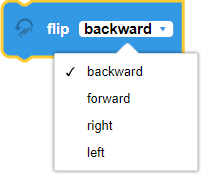
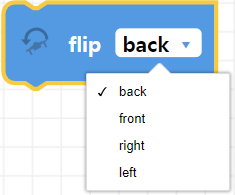
block image update & print css

diff --git a/src/css/custom.css b/src/css/custom.css
@@ -6,6 +6,12 @@
 
 /* You can override the default Infima variables here. */
 
+@media print {
+  .row>.col:first-child {
+    overflow: visible !important;
+  }
+}
+
 .navbar {
   background-color: #061030;
   height: 80px;

diff --git a/docs/CoDroneEDU/Blockly/page4.md b/docs/CoDroneEDU/Blockly/page4.md
@@ -154,10 +154,10 @@ In this example, roll and pitch are both set to positive 30% while yaw and throt
 
 <img src="/img/CDE/blockly_docu/senior/flip_params.png" width="180px"/>  
 
-**direction:** backward, forward, right, left
+**direction:** back, front, right, left
 
 #### Description
-This functions makes the drone flip backward, forward, right, or left. Make sure your battery percentage is over 50% for the flip to execute.
+This functions makes the drone flip back, front, right, or left. Make sure your battery percentage is over 50% for the flip to execute.
 
 #### Returns
 None
@@ -1184,6 +1184,12 @@ None
 ```
 Draws a line between points (x1, y1) and (x2, y2)
 
+:::warning
+
+This function is currently unavailable for CoDrone EDU (JROTC ed.).
+
+:::
+
 #### Returns
 None
 
@@ -1213,6 +1219,12 @@ None
 
 #### Description
 Draws a string from the given x_start, x_end and y positions. The string can be aligned along the x_start and x_end positions
+
+:::warning
+
+This function is currently unavailable for CoDrone EDU (JROTC ed.).
+
+:::
 
 #### Returns
 None
@@ -1254,6 +1266,12 @@ None
 
 Draws a rectangle onto the controller screen starting from point (x,y) and extends to given height and width
 
+:::warning
+
+This function is currently unavailable for CoDrone EDU (JROTC ed.).
+
+:::
+
 #### Returns
 None
 
@@ -1291,6 +1309,12 @@ width
 ```
 Draws a square on the controller screen starting from point (x,y) and will extend to the given width
 
+:::warning
+
+This function is currently unavailable for CoDrone EDU (JROTC ed.).
+
+:::
+
 #### Returns
 None
 
@@ -1320,6 +1344,12 @@ None
 #### Description
 Draws a point on the CoDrone EDU LED screen at point (x, y).
 
+:::warning
+
+This function is currently unavailable for CoDrone EDU (JROTC ed.).
+
+:::
+
 #### Returns
 None
 
@@ -1344,6 +1374,12 @@ None
 
 #### Description
 Clears the CoDrone EDU controller screen.
+
+:::warning
+
+This function is currently unavailable for CoDrone EDU (JROTC ed.).
+
+:::
 
 #### Returns
 None

diff --git a/docs/CoDroneEDU/Blockly/page3.md b/docs/CoDroneEDU/Blockly/page3.md
@@ -97,11 +97,11 @@ None
 
 #### Block
 
-<img src="/img/CDE/blockly_docu/junior/go_for_seconds_at_power.png" width="420px"/>  
+<img src="/img/CDE/blockly_docu/junior/go_for_seconds_at_power.png" width="480px"/>  
 
 #### Parameters
 
-<img src="/img/CDE/blockly_docu/junior/go_at_power_params.png" width="420px"/> 
+<img src="/img/CDE/blockly_docu/junior/go_at_power_params.png" width="480px"/> 
 
 **direction:** forward, backward, up, down, left, right     
 **duration:** positive integer in seconds       
@@ -179,10 +179,10 @@ None
 
 <img src="/img/CDE/blockly_docu/junior/flip_params.png" width="200px"/>  
 
-**direction:** backward, forward, right, left
+**direction:** back, front, right, left
 
 #### Description
-This functions makes the drone flip backward, forward, right, or left. Make sure your battery percentage is over 50% for the flip to execute.
+This functions makes the drone flip back, front, right, or left. Make sure your battery percentage is over 50% for the flip to execute.
 
 #### Returns
 None
